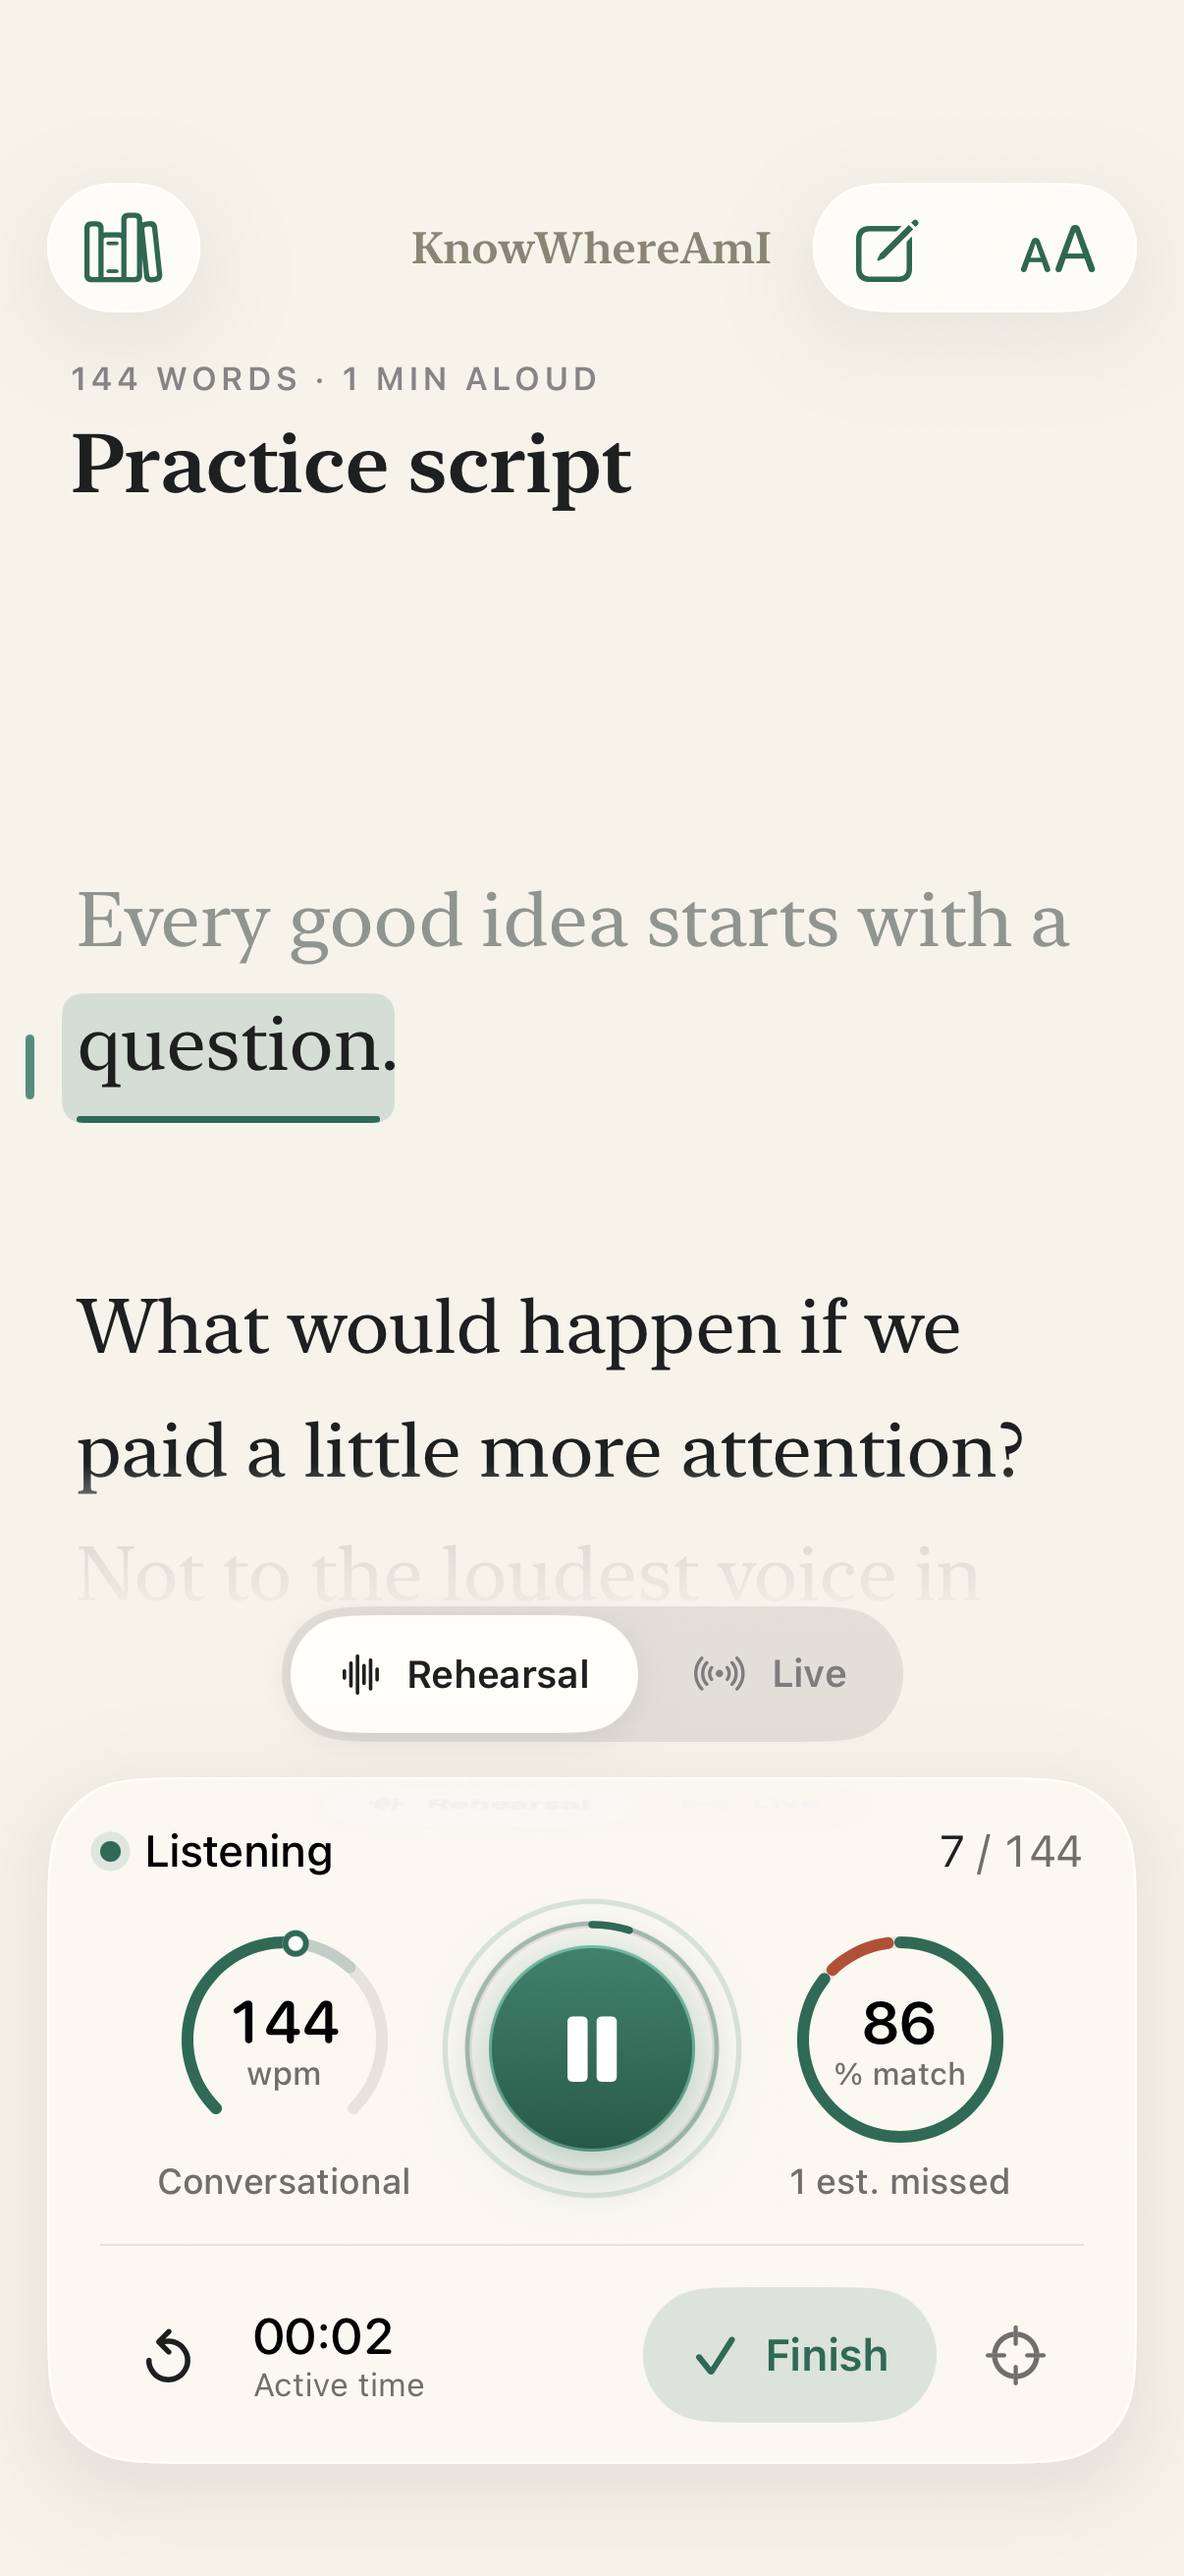
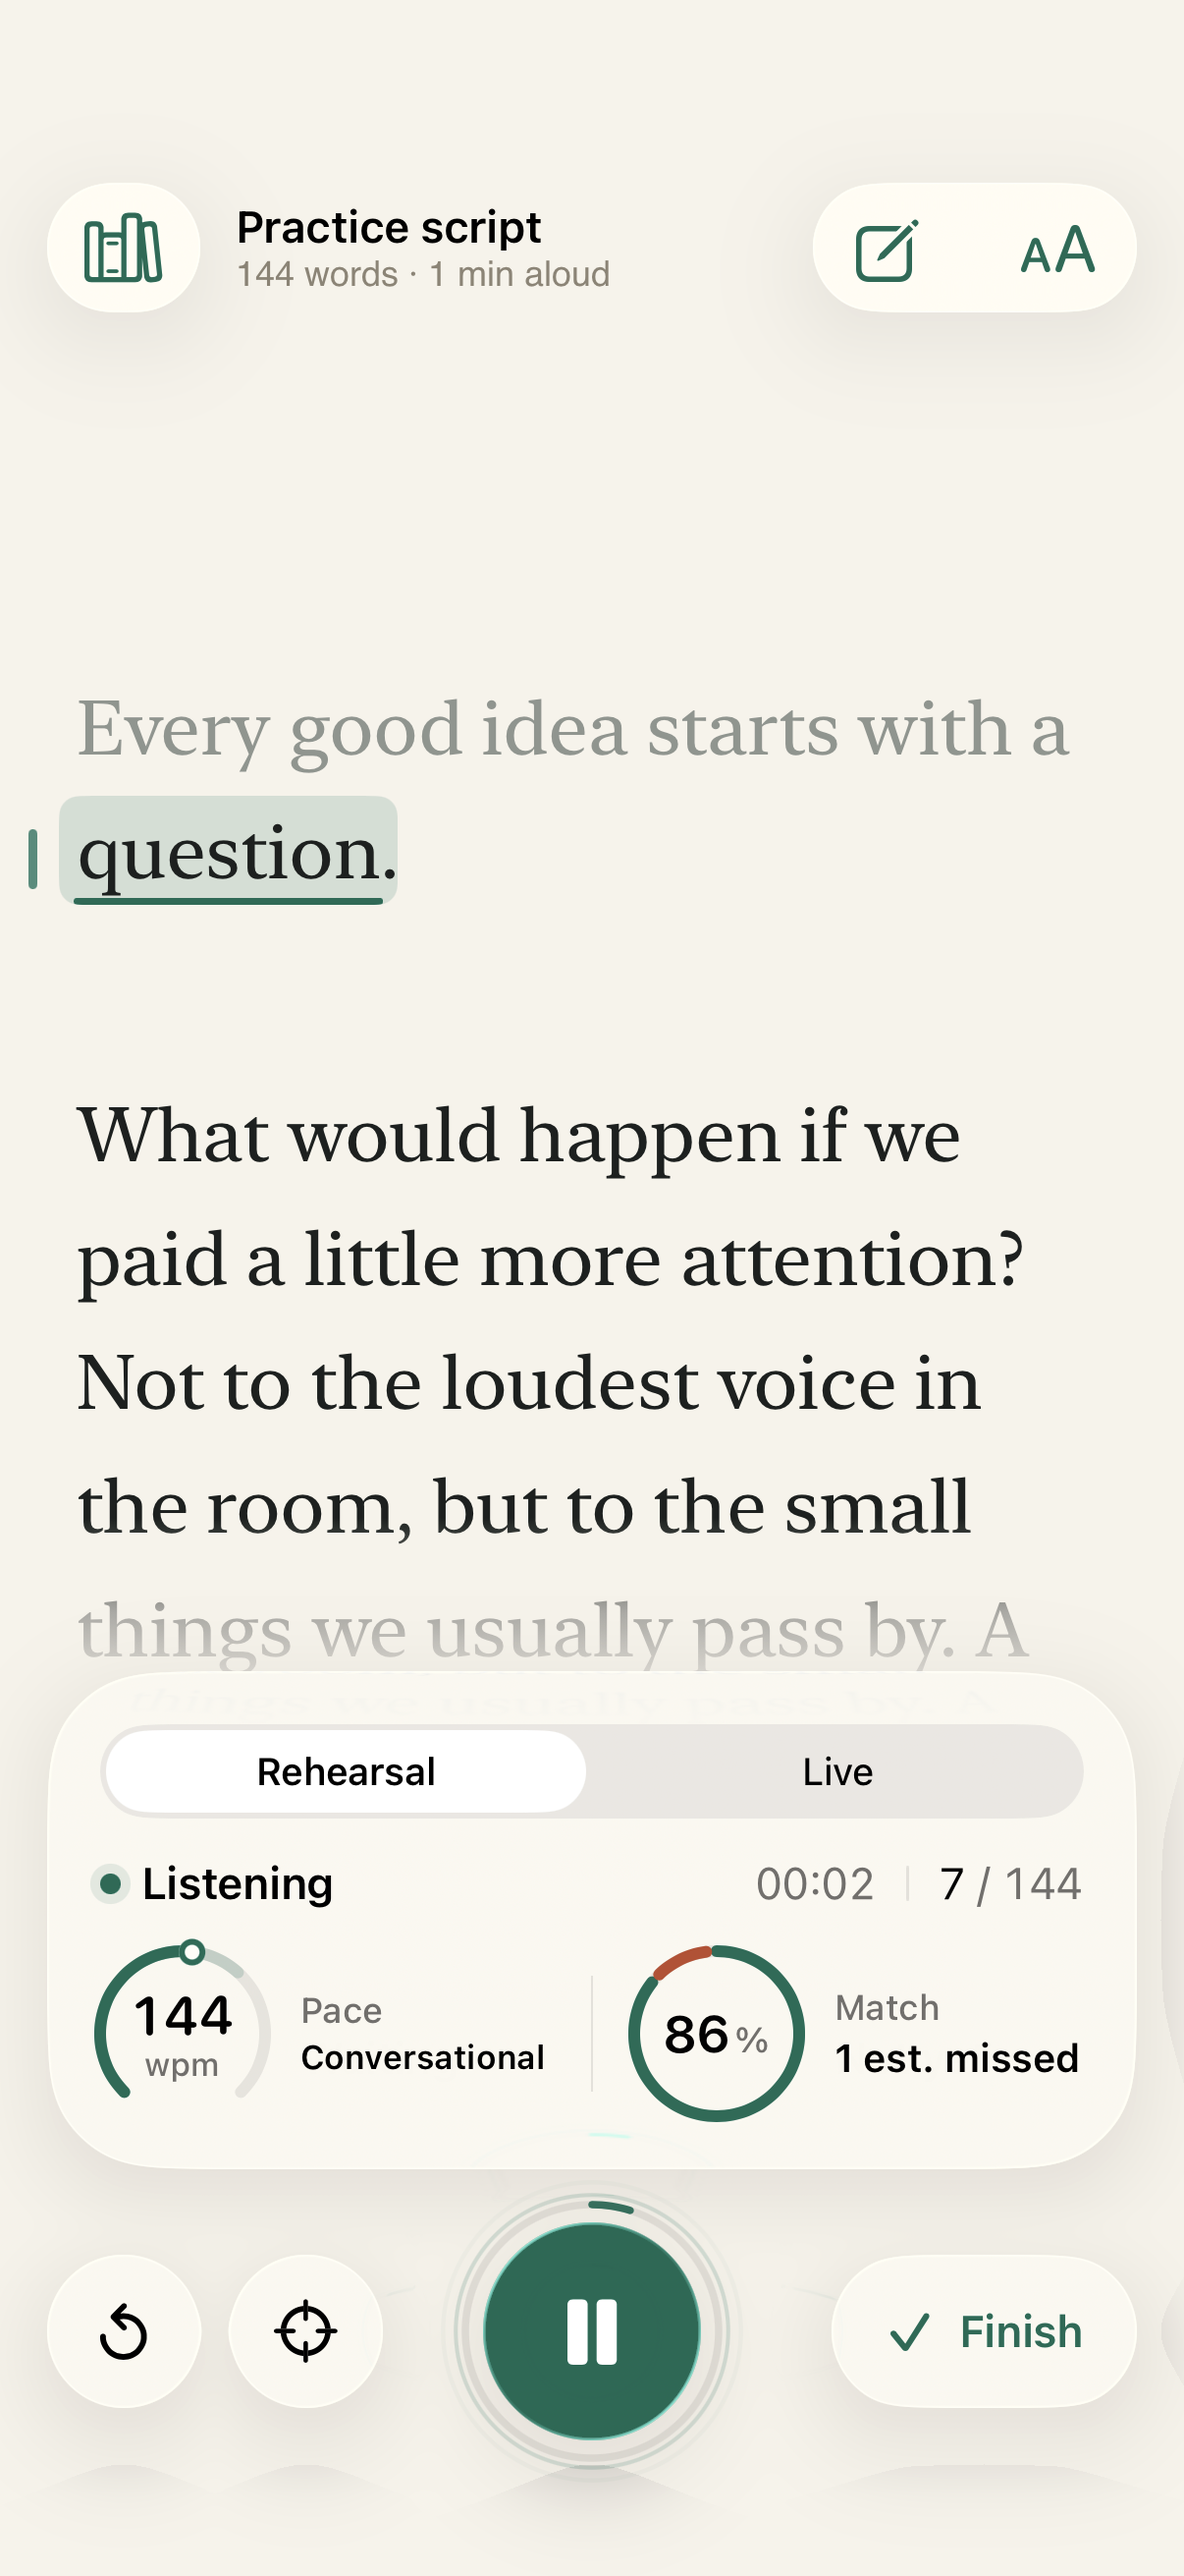
Refresh previews and document alignment rules
Claude-Session: https://claude.ai/code/session_01LPjznvxDsUVjY6eevtw6FT

diff --git a/docs/EXPERIENCE-UPGRADE.md b/docs/EXPERIENCE-UPGRADE.md
@@ -197,3 +197,23 @@ Every SwiftUI file holds one component, and no file exceeds 500 lines.
 - `App/Rehearsal/`: `RehearsalReportView`, `ReportHero`, `ReportMetrics`,
   `CoverageCard`, `MissedWordsSection`, `ManuscriptReviewView`, `ReportSheet`,
   `MatchRing`, `WordCoverageMap`, `CoverageBin`.
+
+## Alignment Rules
+
+- The word highlight is sized from the font's ascender and descender, so it
+  has equal room above and below the word. Line-fragment rects carry the line
+  spacing below the text.
+- The focus lane mark centers on the text (the fragment's center minus half the
+  line spacing) and scales with the manuscript size.
+- Status rows: indicator and label 7 pt apart; secondary figures grouped on the
+  trailing edge with a hairline divider; monospaced digits throughout.
+- The console panel uses one 18 pt inset, so the picker, status row, and
+  readouts share a leading edge. Secondary buttons, the microphone, and Finish
+  share one centerline.
+- Badges align optically: the label, not its capsule, lines up with the title.
+  Badge rows have a fixed height, so titles align across neighbouring cards.
+- Edge glyphs (text-size buttons) sit on the row's text edges; their 44 pt hit
+  area extends inward.
+- Tile symbols occupy a fixed 20 pt slot, so values align across tiles.
+- At accessibility sizes, captions move below their dials instead of wrapping
+  mid-word.
